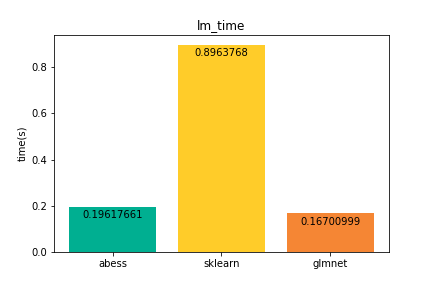
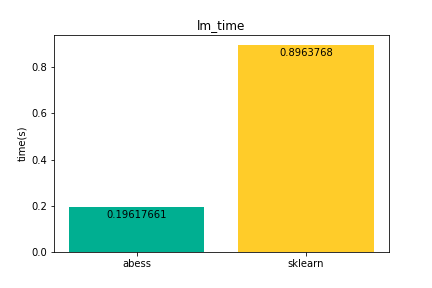
update readthedoc: home

diff --git a/README.rst b/README.rst
@@ -11,14 +11,23 @@ Welcome to abess's documentation!
 that the resulting linear model is expected to have the most desirable
 prediction accuracy. This project implements a polynomial algorithm proposed to solve these problems. It supports:
 
--  linear regression
--  classification (binary or multi-class)
--  counting-response modeling
--  censored-response modeling
--  multi-response modeling (multi-tasks learning)
--  group best subset selection
--  nuisance penalized regression
--  sure independence screening
+-  `linear regression`_
+-  `classification (binary or multi-class)`_
+-  `counting-response modeling`_
+-  `censored-response modeling`_
+-  `multi-response modeling (multi-tasks learning)`_
+-  `group best subset selection`_
+-  `nuisance penalized regression`_
+-  `sure independence screening`_
+
+.. _linear regression: https://abess.readthedocs.io/en/latest/Tutorial/LinearRegression.html
+.. _classification (binary or multi-class): https://abess.readthedocs.io/en/latest/Tutorial/logi_and_multiclass.html
+.. _counting-response modeling: https://abess.readthedocs.io/en/latest/Tutorial/PoissonRegression.html
+.. _censored-response modeling: https://abess.readthedocs.io/en/latest/Tutorial/CoxRegression.html
+.. _multi-response modeling (multi-tasks learning): https://abess.readthedocs.io/en/latest/Tutorial/MultiTaskLearning.html
+.. _group best subset selection: https://abess.readthedocs.io/en/latest/Tutorial/advanced_features.html#Best-group-subset-selection
+.. _nuisance penalized regression: https://abess.readthedocs.io/en/latest/Tutorial/advanced_features.html#Nuisance-Regression
+.. _sure independence screening: https://abess.readthedocs.io/en/latest/Tutorial/advanced_features.html#Integrate-SIS
 
 Installation
 ============
@@ -32,39 +41,23 @@ Performance
 ===========
 
 To show the computational efficiency of abess, 
-we compare abess package with two popular python packages: sklearn and glmnet. We compare the time and 
-test loss on linear and logistic regression. 
-Timings of the CPU execution are recorded in seconds and both of the 
-comparisons are averaged over 100 replications. The detail of 
-comparing code can be viewed at `https://github.com/abess-team/abess/tree/master/docs/perform`_.
-
-.. _https://github.com/abess-team/abess/tree/master/docs/perform: https://github.com/abess-team/abess/tree/master/docs/perform
+we compare abess with scikit-learn on linear and logistic regression.
+Timings of the CPU execution are recorded in seconds, which 
+are averaged over 100 replications. The detail of the  
+comparing code can be viewed at https://github.com/abess-team/abess/tree/master/docs/perform .
 
 Results are presented in the following picture. 
 
-Loss:
-
 |pic1| |pic2|
 
-.. |pic1| image:: ./perform/lm_loss.png
+.. |pic1| image:: ./perform/lm_time.png
    :width: 48%
 
-.. |pic2| image:: ./perform/logi_loss.png
+.. |pic2| image:: ./perform/logi_time.png
    :width: 48%
 
-Time:
-
-|pic3| |pic4|
-
-.. |pic3| image:: ./perform/lm_time.png
-   :width: 48%
-
-.. |pic4| image:: ./perform/logi_time.png
-   :width: 48%
-
-Although glmnet has a high speed, its loss is much higher than others.
-For the rest two algorithms, abess reaches a higher efficient performance than sklearn, 
-especially on linear regression while their losses are both quite small.
+As a package solving best subset selection, abess reaches a high efficient performance especially 
+in linear regression where it gives the fastest solution.
 
 Reference
 =========
